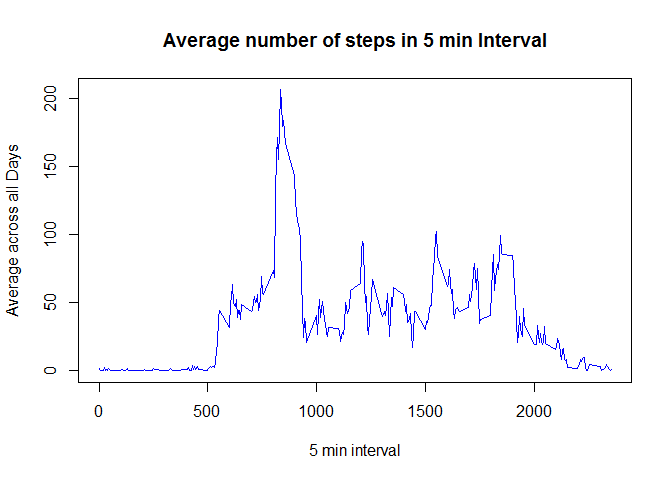
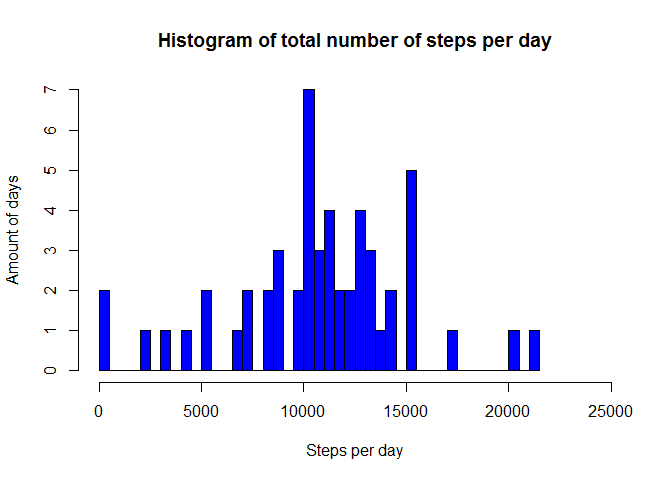
R code chunked in the RMD

diff --git a/PA1_template.html b/PA1_template.html
@@ -65,72 +65,88 @@ img {
 
 
 <p>This report was created for the Coursera Reproducible Research Course. The initial repository was forked from <a href="https://github.com/rdpeng/RepData_PeerAssessment1" class="uri">https://github.com/rdpeng/RepData_PeerAssessment1</a> . The figures are stored in default RStudio location (PA1_template_files-html)</p>
+<p>The environment locale has to be set to EN.</p>
+<pre class="r"><code>Sys.setlocale(&quot;LC_TIME&quot;, &quot;English&quot;)</code></pre>
+<pre><code>## [1] &quot;English_United States.1252&quot;</code></pre>
+<p>In the data processing I am using following libraries.</p>
+<pre class="r"><code>library(plyr)
+library(lattice)</code></pre>
 <div id="loading-and-preprocessing-the-data" class="section level2">
 <h2>Loading and preprocessing the data</h2>
-<p>The dataset <a href="https://d396qusza40orc.cloudfront.net/repdata%2Fdata%2Factivity.zip">Activity monitoring data</a> for this assignement was downloaded on 2015-09-19.</p>
-<p>I also add a column with a date/time to the dataset.</p>
+<p>The dataset <a href="https://d396qusza40orc.cloudfront.net/repdata%2Fdata%2Factivity.zip">Activity monitoring data</a> for this assignement was downloaded on 2015-09-20.</p>
 <pre class="r"><code>download.file('https://d396qusza40orc.cloudfront.net/repdata%2Fdata%2Factivity.zip', &quot;activity_monitoring_data.zip&quot;)
 unzip(&quot;activity_monitoring_data.zip&quot;)
-allData &lt;- read.csv(&quot;activity.csv&quot;)
-
-times &lt;- paste(allData$interval %/% 100, allData$interval %% 100, &quot;00&quot;, sep = &quot;:&quot;)
+allData &lt;- read.csv(&quot;activity.csv&quot;)</code></pre>
+<p>I also add a column with a date/time to the dataset.</p>
+<pre class="r"><code>times &lt;- paste(allData$interval %/% 100, allData$interval %% 100, &quot;00&quot;, sep = &quot;:&quot;)
 allData$dateTime &lt;- strptime(paste(allData$date, times) , &quot;%Y-%m-%d %H:%M:%S&quot;)</code></pre>
 </div>
 <div id="what-is-mean-total-number-of-steps-taken-per-day" class="section level2">
 <h2>What is mean total number of steps taken per day?</h2>
 <p>I use the plyr library and make a summary dataset containing the data I might need. For the mean and median calculation I remove the NA values.</p>
-<pre class="r"><code>library(plyr)
-dayData &lt;- ddply(allData, ~date, summarize, mean=mean(steps), sd=sd(steps), median=median(steps, na.rm = TRUE), sum=sum(steps))
-
-totalMean &lt;- mean(dayData$sum, na.rm = TRUE)
-totalMedian &lt;- median(dayData$sum, na.rm = TRUE)
-
-hist(dayData$sum, breaks = 50, main = &quot;Histogram of total number of steps per day&quot;, xlab = &quot;Steps per day&quot;, ylab = &quot;Amount of days&quot;, col = &quot;blue&quot;, xlim = c(0,25000))</code></pre>
+<pre class="r"><code>dayData &lt;- ddply(allData, ~date, summarize, mean=mean(steps), sd=sd(steps), median=median(steps, na.rm = TRUE), sum=sum(steps))</code></pre>
+<p>Now calculate the Median and Mean</p>
+<pre class="r"><code>totalMean &lt;- mean(dayData$sum, na.rm = TRUE)
+totalMedian &lt;- median(dayData$sum, na.rm = TRUE)</code></pre>
+<pre class="r"><code>totalMean</code></pre>
+<pre><code>## [1] 10766.19</code></pre>
+<pre class="r"><code>totalMedian</code></pre>
+<pre><code>## [1] 10765</code></pre>
+<p>And plot the histogram of total number of steps per day</p>
+<pre class="r"><code>hist(dayData$sum, breaks = 50, main = &quot;Histogram of total number of steps per day&quot;, xlab = &quot;Steps per day&quot;, ylab = &quot;Amount of days&quot;, col = &quot;blue&quot;, xlim = c(0,25000))</code></pre>
[1 lines of base64/hex data omitted]
 <p>The average number of steps per day is <strong>10766</strong> with the median of <strong>10765</strong>.</p>
 </div>
 <div id="what-is-the-average-daily-activity-pattern" class="section level2">
 <h2>What is the average daily activity pattern?</h2>
-<p>Lets calculate and graph the daily pattern</p>
+<p>Lets calculate and graph the daily pattern. Here is the summary over an interval with its maximum</p>
 <pre class="r"><code>intervalData &lt;- ddply(allData, ~interval, summarize, mean=mean(steps, na.rm = TRUE), sd=sd(steps, na.rm = TRUE), median=median(steps, na.rm = TRUE), sum=sum(steps, na.rm = TRUE))
 
 maxStepsInInterval &lt;- intervalData[which.max(intervalData$mean),]$interval
 
-plot(intervalData$interval, intervalData$mean, type = &quot;l&quot;, xlab = &quot;5 min interval&quot;, ylab = &quot;Average across all Days&quot;, main = &quot;Average number of steps in 5 min Interval&quot;, col = &quot;blue&quot;)</code></pre>
+maxStepsInInterval</code></pre>
+<pre><code>## [1] 835</code></pre>
+<p>The plot for the daily activity follows</p>
+<pre class="r"><code>plot(intervalData$interval, intervalData$mean, type = &quot;l&quot;, xlab = &quot;5 min interval&quot;, ylab = &quot;Average across all Days&quot;, main = &quot;Average number of steps in 5 min Interval&quot;, col = &quot;blue&quot;)</code></pre>
[1 lines of base64/hex data omitted]
 <p><strong>835</strong> is the interval containing the most steps</p>
 </div>
 <div id="imputing-missing-values" class="section level2">
 <h2>Imputing missing values</h2>
+<p>How many NAs are in the dataset?</p>
 <pre class="r"><code>totalNAs &lt;- sum(is.na(allData$steps))
-allDataWithoutNAs &lt;- allData
+totalNAs</code></pre>
+<pre><code>## [1] 2304</code></pre>
+<p>In this step I replace the NA with a mean for the specific interval.</p>
+<pre class="r"><code>allDataWithoutNAs &lt;- allData
 
 for (i in 1:nrow(allDataWithoutNAs))
     if (is.na(allDataWithoutNAs[i,]$steps)) 
-        allDataWithoutNAs[i,]$steps &lt;- round(intervalData[intervalData$interval == allDataWithoutNAs[i,]$interval, ]$mean)
-
-
-dayDataWithoutNAs &lt;- ddply(allDataWithoutNAs, ~date, summarize, mean=mean(steps), sd=sd(steps), median=median(steps, na.rm = TRUE), sum=sum(steps))
+        allDataWithoutNAs[i,]$steps &lt;- round(intervalData[intervalData$interval == allDataWithoutNAs[i,]$interval, ]$mean)</code></pre>
+<p>And prepare summary for the graph + compute the Median and Mean of the “corrected” dataset</p>
+<pre class="r"><code>dayDataWithoutNAs &lt;- ddply(allDataWithoutNAs, ~date, summarize, mean=mean(steps), sd=sd(steps), median=median(steps, na.rm = TRUE), sum=sum(steps))
 
 totalMeanWithoutNAs &lt;- mean(dayDataWithoutNAs$sum, na.rm = TRUE)
-totalMedianWithoutNAs &lt;- median(dayDataWithoutNAs$sum, na.rm = TRUE)
-
-hist(dayDataWithoutNAs$sum, breaks = 50, main = &quot;Histogram of total number of steps per day - modified&quot;, xlab = &quot;Steps per day&quot;, ylab = &quot;Amount of days&quot;, col = &quot;red&quot;, xlim = c(0,25000))</code></pre>
+totalMedianWithoutNAs &lt;- median(dayDataWithoutNAs$sum, na.rm = TRUE)</code></pre>
+<pre class="r"><code>totalMeanWithoutNAs</code></pre>
+<pre><code>## [1] 10765.64</code></pre>
+<pre class="r"><code>totalMedianWithoutNAs</code></pre>
+<pre><code>## [1] 10762</code></pre>
+<p>Last but not least the histogram of the total amount of steps per day.</p>
+<pre class="r"><code>hist(dayDataWithoutNAs$sum, breaks = 50, main = &quot;Histogram of total number of steps per day - modified&quot;, xlab = &quot;Steps per day&quot;, ylab = &quot;Amount of days&quot;, col = &quot;red&quot;, xlim = c(0,25000))</code></pre>
[1 lines of base64/hex data omitted]
 <p>There are in total <strong>2304</strong> missing values (NAs) in the original dataset. My preference would be, not to fill the missing number, however for this assignement I will use the mean calculated for the specific interval over all days.</p>
 <p>The average number of steps per day in the modified dataset is <strong>10765</strong> with the median of <strong>10762</strong>.</p>
 </div>
 <div id="are-there-differences-in-activity-patterns-between-weekdays-and-weekends" class="section level2">
 <h2>Are there differences in activity patterns between weekdays and weekends?</h2>
-<p>Finally we compare the Means of Week and Weekend days. The locale has to be EN English_United States.1252.</p>
-<pre class="r"><code>library(lattice)
-
-weekend &lt;- ifelse(weekdays(allData$dateTime) %in% c('Saturday','Sunday'), 'Weekend', 'Weekday')
+<p>A summary dataset with weekday/end column is created</p>
+<pre class="r"><code>weekend &lt;- ifelse(weekdays(allData$dateTime) %in% c('Saturday','Sunday'), 'Weekend', 'Weekday')
 allData$weekend &lt;- weekend
 
-intervalDataWeek &lt;- ddply(allData, c('interval', 'weekend'), summarize, mean=mean(steps, na.rm = TRUE))
-
-xyplot(mean ~ interval | weekend, intervalDataWeek, type = &quot;l&quot;, layout = c(1, 2), xlab = &quot;Interval&quot;, ylab = &quot;Average number of steps&quot;)</code></pre>
+intervalDataWeek &lt;- ddply(allData, c('interval', 'weekend'), summarize, mean=mean(steps, na.rm = TRUE))</code></pre>
+<p>And the final plots with the mean of steps per weekday/end</p>
+<pre class="r"><code>xyplot(mean ~ interval | weekend, intervalDataWeek, type = &quot;l&quot;, layout = c(1, 2), xlab = &quot;Interval&quot;, ylab = &quot;Average number of steps&quot;)</code></pre>
[1 lines of base64/hex data omitted]
 </div>
 

diff --git a/PA1_template.md b/PA1_template.md
@@ -3,17 +3,40 @@ This report was created for the Coursera Reproducible Research Course.
 The initial repository was forked from https://github.com/rdpeng/RepData_PeerAssessment1 .
 The figures are stored in default RStudio location  (PA1_template_files\figure-html)
 
-## Loading and preprocessing the data
-The dataset [Activity monitoring data](https://d396qusza40orc.cloudfront.net/repdata%2Fdata%2Factivity.zip) for this assignement was downloaded on 2015-09-19.
+The environment locale has to be set to EN.
 
-I also add a column with a date/time to the dataset.
+
+```r
+Sys.setlocale("LC_TIME", "English")
+```
+
+```
+## [1] "English_United States.1252"
+```
+
+In the data processing I am using following libraries.
+
+
+```r
+library(plyr)
+library(lattice)
+```
+
+## Loading and preprocessing the data
+The dataset [Activity monitoring data](https://d396qusza40orc.cloudfront.net/repdata%2Fdata%2Factivity.zip) for this assignement was downloaded on 2015-09-20.
+
 
 
 ```r
 download.file('https://d396qusza40orc.cloudfront.net/repdata%2Fdata%2Factivity.zip', "activity_monitoring_data.zip")
 unzip("activity_monitoring_data.zip")
 allData <- read.csv("activity.csv")
+```
 
+I also add a column with a date/time to the dataset.
+
+
+```r
 times <- paste(allData$interval %/% 100, allData$interval %% 100, "00", sep = ":")
 allData$dateTime <- strptime(paste(allData$date, times) , "%Y-%m-%d %H:%M:%S")
 ```
@@ -23,21 +46,47 @@ I use the plyr library and make a summary dataset containing the data I might ne
 
 
 ```r
-library(plyr)
 dayData <- ddply(allData, ~date, summarize, mean=mean(steps), sd=sd(steps), median=median(steps, na.rm = TRUE), sum=sum(steps))
+```
 
+Now calculate the Median and Mean
+
+```r
 totalMean <- mean(dayData$sum, na.rm = TRUE)
 totalMedian <- median(dayData$sum, na.rm = TRUE)
+```
 
+
+```r
+totalMean
+```
+
+```
+## [1] 10766.19
+```
+
+
+```r
+totalMedian
+```
+
+```
+## [1] 10765
+```
+
+And plot the histogram of total number of steps per day
+
+
+```r
 hist(dayData$sum, breaks = 50, main = "Histogram of total number of steps per day", xlab = "Steps per day", ylab = "Amount of days", col = "blue", xlim = c(0,25000))
 ```
 
-![](PA1_template_files/figure-html/unnamed-chunk-2-1.png) 
+![](PA1_template_files/figure-html/unnamed-chunk-9-1.png) 
 
 The average number of steps per day is **10766** with the median of **10765**.
 
 ## What is the average daily activity pattern?
-Lets calculate and graph the daily pattern
+Lets calculate and graph the daily pattern. Here is the summary over an interval with its maximum
 
 
 ```r
@@ -45,36 +94,86 @@ intervalData <- ddply(allData, ~interval, summarize, mean=mean(steps, na.rm = TR
 
 maxStepsInInterval <- intervalData[which.max(intervalData$mean),]$interval
 
+maxStepsInInterval
+```
+
+```
+## [1] 835
+```
+
+The plot for the daily activity follows
+
+
+```r
 plot(intervalData$interval, intervalData$mean, type = "l", xlab = "5 min interval", ylab = "Average across all Days", main = "Average number of steps in 5 min Interval", col = "blue")
 ```
 
-![](PA1_template_files/figure-html/unnamed-chunk-3-1.png) 
+![](PA1_template_files/figure-html/unnamed-chunk-11-1.png) 
 
 **835** is the interval containing the most steps
 
 
 ## Imputing missing values
 
+How many NAs are in the dataset?
 
 
 ```r
 totalNAs <- sum(is.na(allData$steps))
+totalNAs
+```
+
+```
+## [1] 2304
+```
+
+In this step I replace the NA with a mean for the specific interval.
+
+
+```r
 allDataWithoutNAs <- allData
 
 for (i in 1:nrow(allDataWithoutNAs))
     if (is.na(allDataWithoutNAs[i,]$steps)) 
         allDataWithoutNAs[i,]$steps <- round(intervalData[intervalData$interval == allDataWithoutNAs[i,]$interval, ]$mean)
+```
+
+And prepare summary for the graph + compute the Median and Mean of the "corrected" dataset
 
 
+```r
 dayDataWithoutNAs <- ddply(allDataWithoutNAs, ~date, summarize, mean=mean(steps), sd=sd(steps), median=median(steps, na.rm = TRUE), sum=sum(steps))
 
 totalMeanWithoutNAs <- mean(dayDataWithoutNAs$sum, na.rm = TRUE)
 totalMedianWithoutNAs <- median(dayDataWithoutNAs$sum, na.rm = TRUE)
+```
 
+
+```r
+totalMeanWithoutNAs
+```
+
+```
+## [1] 10765.64
+```
+
+
+```r
+totalMedianWithoutNAs
+```
+
+```
+## [1] 10762
+```
+
+Last but not least the histogram of the total amount of steps per day.
+
+
+```r
 hist(dayDataWithoutNAs$sum, breaks = 50, main = "Histogram of total number of steps per day - modified", xlab = "Steps per day", ylab = "Amount of days", col = "red", xlim = c(0,25000))
 ```
 
-![](PA1_template_files/figure-html/unnamed-chunk-4-1.png) 
+![](PA1_template_files/figure-html/unnamed-chunk-17-1.png) 
 
 There are in total **2304** missing values (NAs) in the original dataset.
 My preference would be, not to fill the missing number, however for this assignement I will use the mean calculated for the specific interval over all days.
@@ -84,19 +183,21 @@ The average number of steps per day in the modified dataset is **10765** with th
 
 ## Are there differences in activity patterns between weekdays and weekends?
 
-Finally we compare the Means of Week and Weekend days. The locale has to be EN English_United States.1252.
+A summary dataset with weekday/end column is created
 
 
 ```r
-library(lattice)
-
 weekend <- ifelse(weekdays(allData$dateTime) %in% c('Saturday','Sunday'), 'Weekend', 'Weekday')
 allData$weekend <- weekend
 
 intervalDataWeek <- ddply(allData, c('interval', 'weekend'), summarize, mean=mean(steps, na.rm = TRUE))
+```
 
+And the final plots with the mean of steps per weekday/end
+
+
+```r
 xyplot(mean ~ interval | weekend, intervalDataWeek, type = "l", layout = c(1, 2), xlab = "Interval", ylab = "Average number of steps")
 ```
 
-![](PA1_template_files/figure-html/unnamed-chunk-5-1.png) 
-
+![](PA1_template_files/figure-html/unnamed-chunk-19-1.png) 
